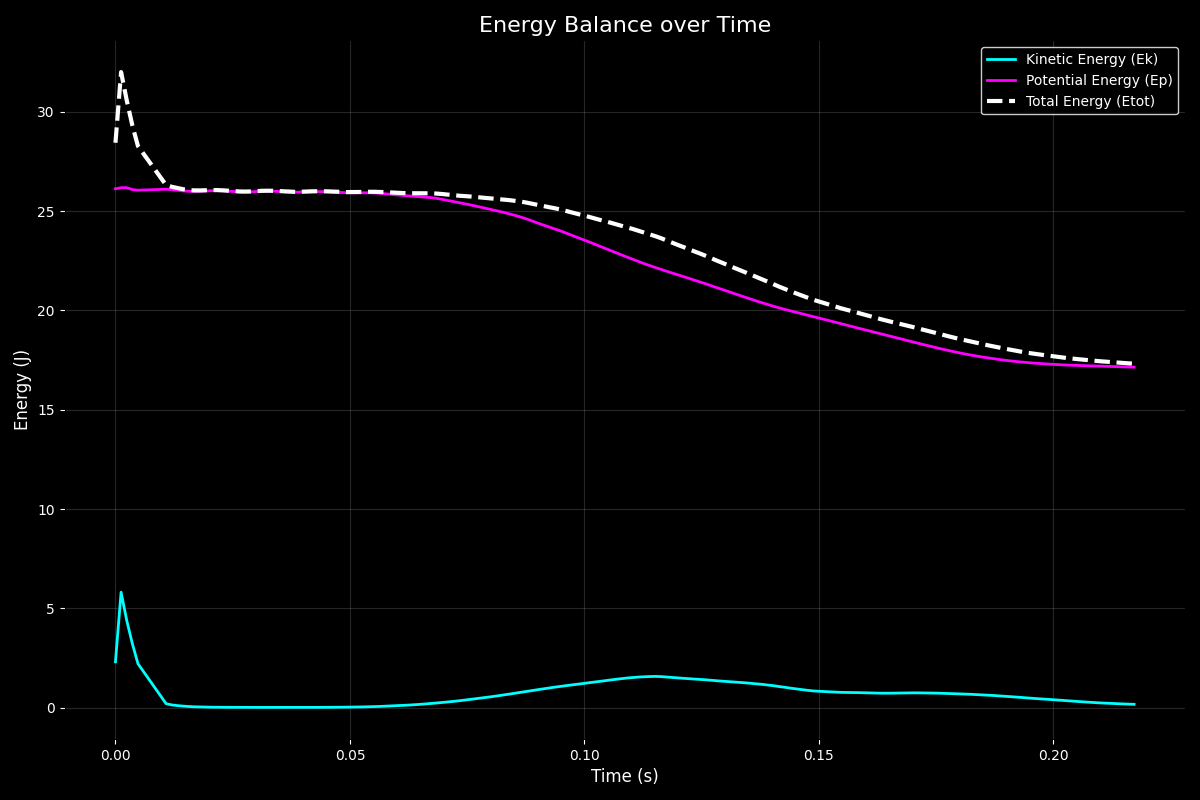
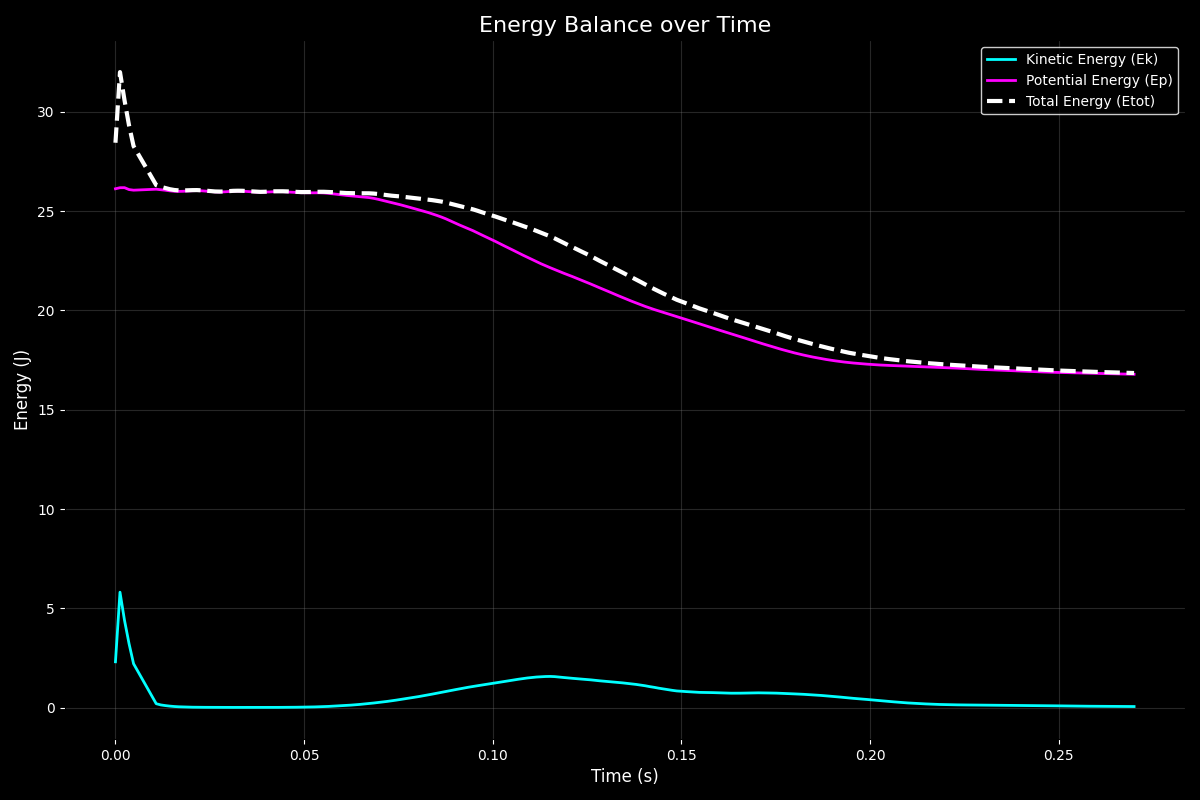
Final Update: Animations and analytic plots for step 67500

diff --git a/README.md b/README.md
@@ -75,7 +75,7 @@ Generate comprehensive data plots from checkpoints:
 
 ## 🧪 Physical Analysis Suite
 
-Detailed diagnostics performed on the final simulation data (54,300+ steps):
+Detailed diagnostics performed on the final simulation data (67,500+ steps):
 
 ### 1. Turbulence & Vorticity
 The **Vorticity Field** shows the formation of pairs of counter-rotating vortices along the spikes (Kelvin-Helmholtz instability). The **Enstrophy** plot tracks the total square vorticity, providing a proxy for turbulence intensity over time.
